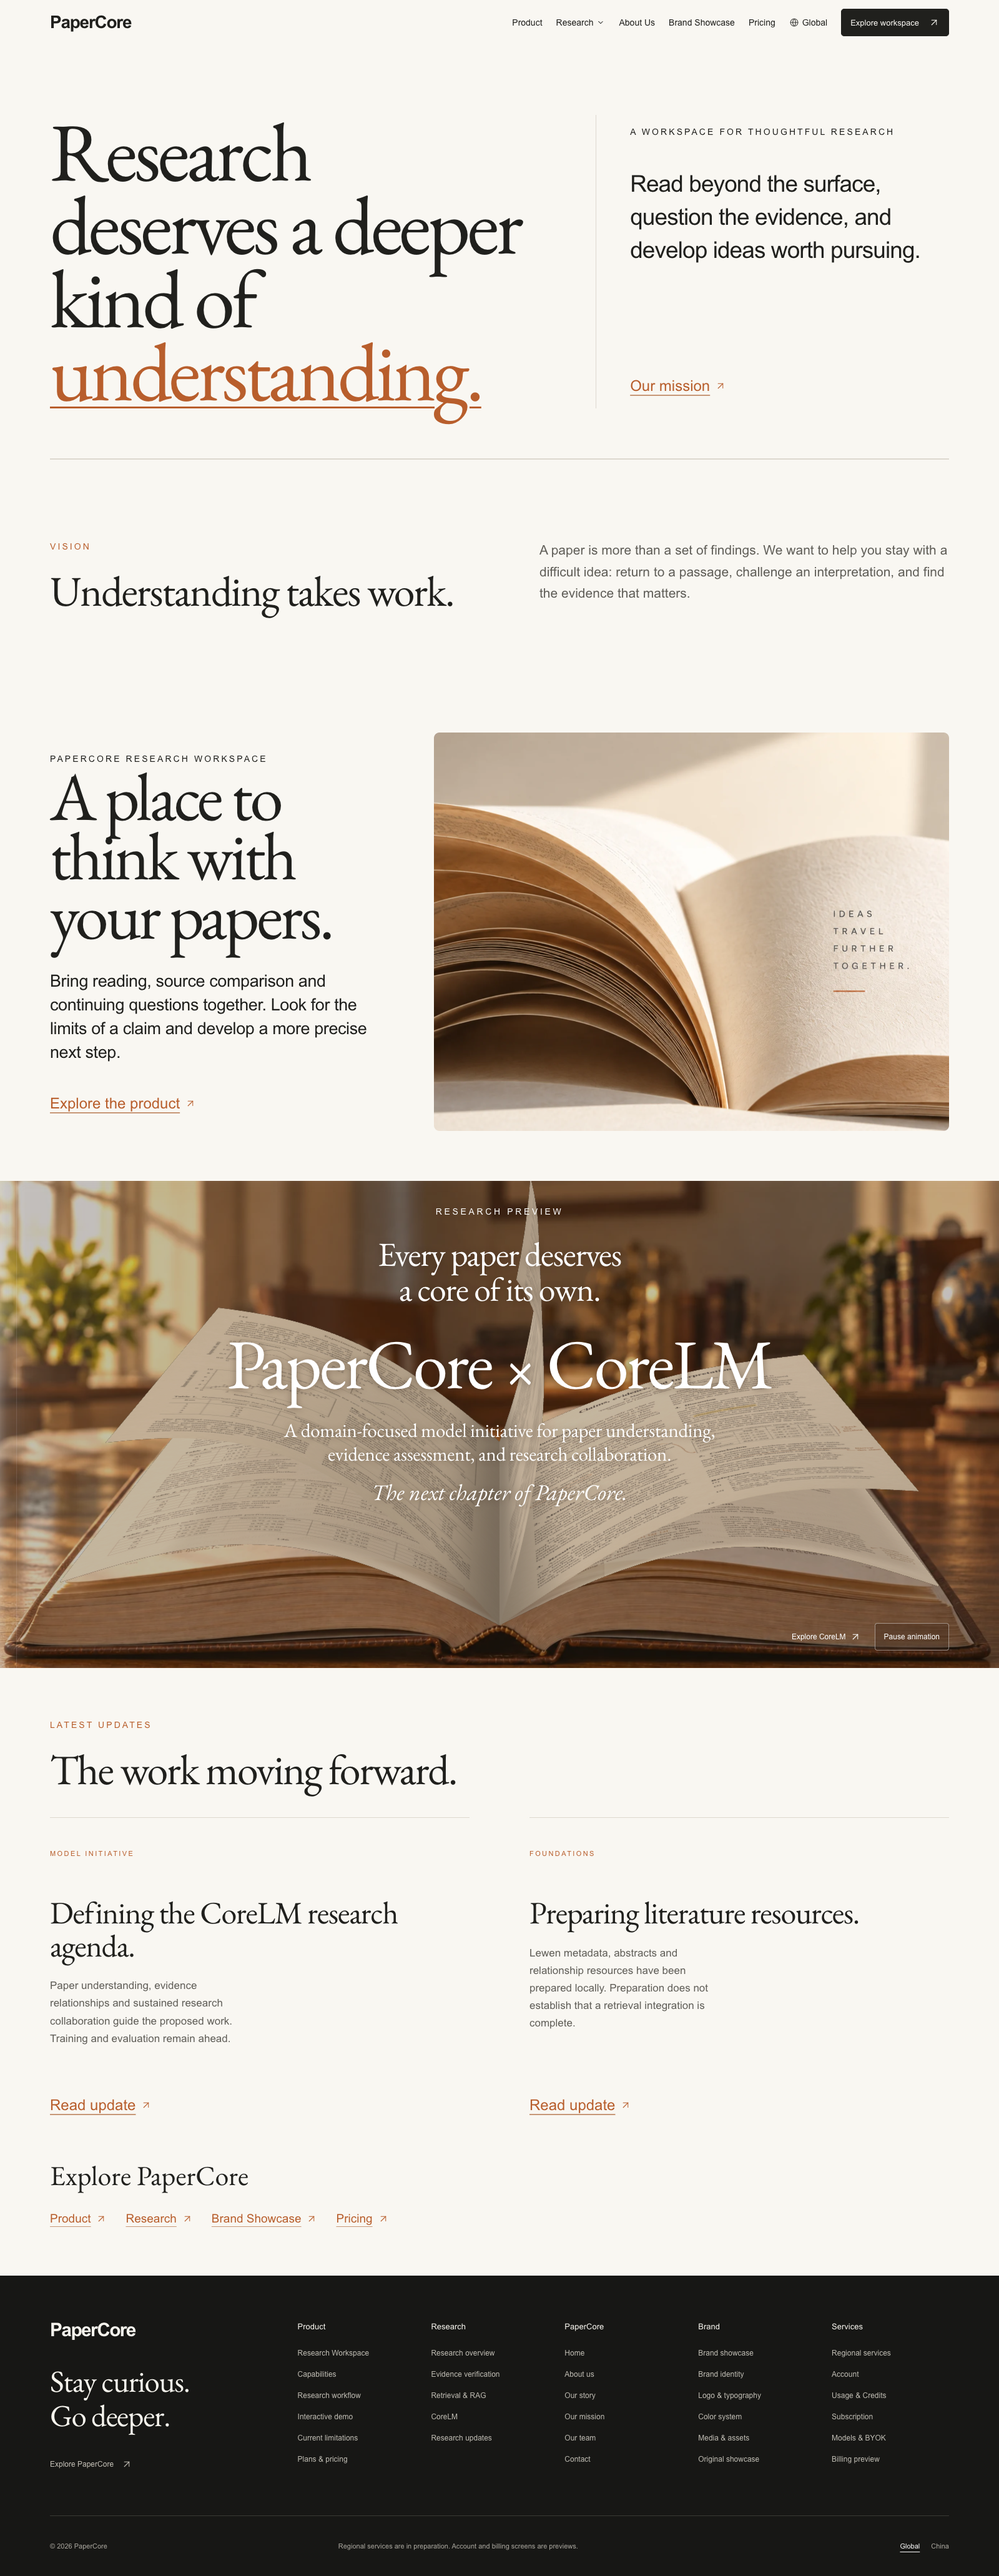
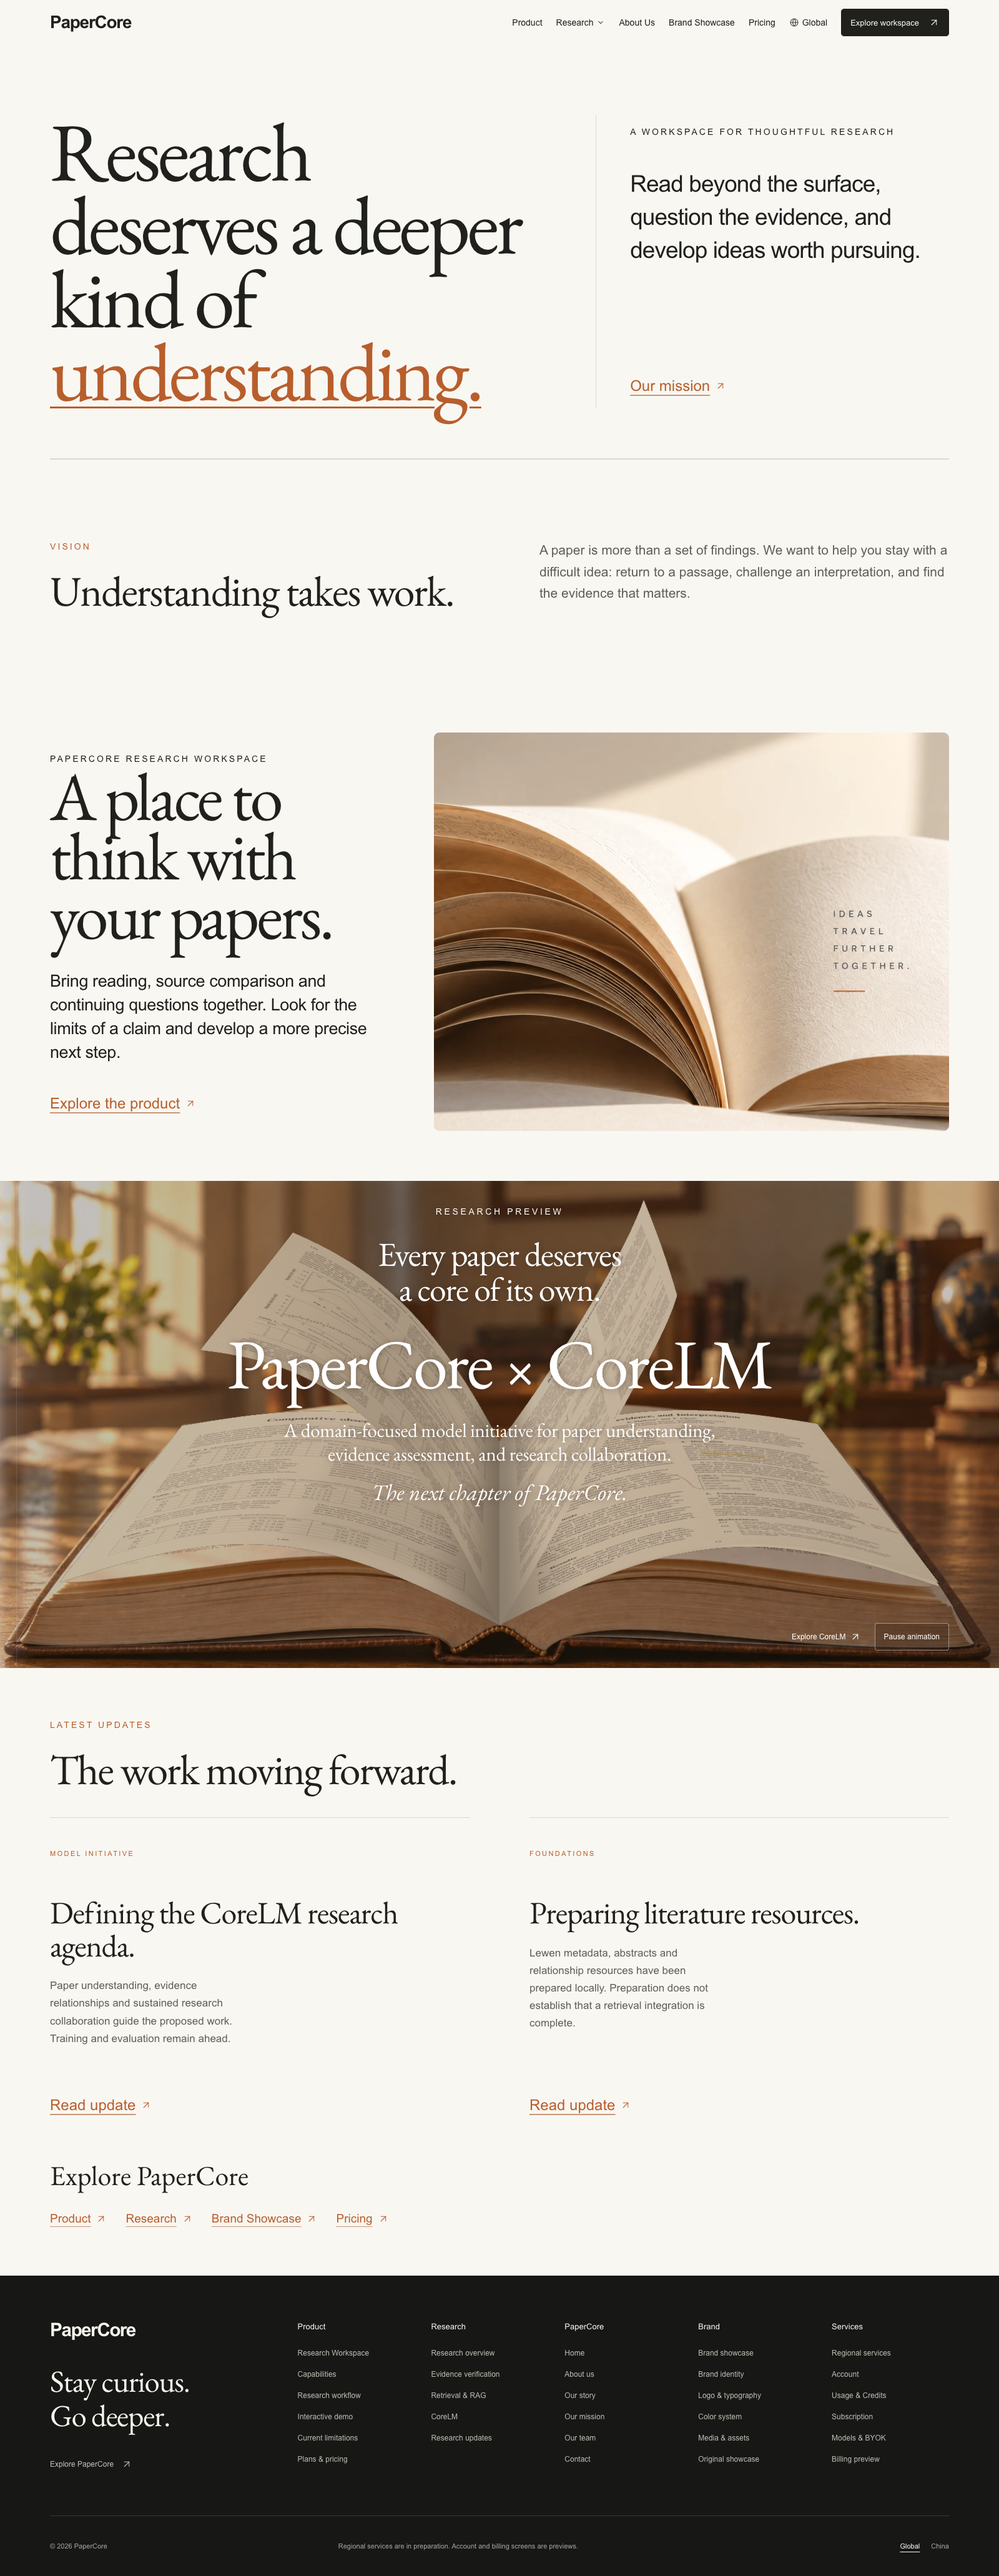
Refresh October 28 previews and research progress

Changed region(s): [[0.125, 0.4655, 0.9062, 0.6206]]

diff --git a/README.md b/README.md
@@ -36,7 +36,7 @@ Follow-ups distinguish discussion, focused edits and new claims. The conversatio
 
 A narrower revision can be supported even when the original claim remains unresolved. Missing full text or a service error is not treated as evidence that a scientific claim is false. Automated checks assist human review; they do not establish scientific correctness.
 
-Recent work improves scanned and nested-chart reading, separates approximate visual measurements from exact values, and makes interrupted evidence reviews recoverable within bounded retries. Complex figures and failed provider calls can still leave a claim unresolved.
+Recent work adds original PDF/image page viewing with navigation and zoom, source-bound table-cell checks, and geometry records for fractions, scripts and nested formulas. Literal location is kept separate from scientific support. Scanned tables, complex formula meaning and ambiguous source locations remain under validation; isolated successful provider requests do not establish general reliability or whole-paper speed.
 
 ## Website and regional workspaces
 
@@ -46,11 +46,11 @@ Local regional services now connect accounts to private research workspaces, usa
 
 ## CoreLM research progress
 
-As of October 15, 2026, small-scale experiments are adapting Qwen3-8B for source-grounded condition and evidence review. This work studies how to distinguish a missing condition, a clearly supported condition and unresolved attribution. It is part of the CoreLM research initiative; no CoreLM model has been released or deployed in PaperCore.
+The member has completed a 396-example synthetic training run based on Qwen3-8B. Review of saved answers found development performance improved from **26/60 to 44/60**, but the model also introduced **10 incorrect clearances**, and regression format/field compliance fell from **12/12 to 5/12**. It therefore **did not pass quality acceptance**. No CoreLM model has been released or deployed in PaperCore.
 
-An initial 264-example training trial showed limited improvement but still failed to recognize uncertainty reliably. Separate prompt comparisons introduced incorrect clearances, so the proposed rules were not deployed. A new set of **396 synthetic training examples** is prepared, with **60 fixed development tasks and 12 regression tasks**; training on this expanded set has not started. The independent test set remains sealed.
+The v1.4 member tools improve runtime accounting, evaluation scheduling and recovery; they do not add training examples or represent a new trained model. The next step is to audit the member-modified code and evaluate existing artifacts before deciding whether further training is justified. The independent test set remains sealed.
 
-These are assistant-authored, author-reviewed exercises, not an independently validated real-paper benchmark. Software checks cover data integrity, resource limits and recovery; they do not establish research accuracy or production readiness. Training code, datasets and weights are not distributed through this Showcase.
+These figures come from a historical review of member outputs, not a new evaluation or an independently validated real-paper benchmark. Training code, datasets, outputs and weights are not distributed through this Showcase.
 
 ## Website preview
 
@@ -58,7 +58,7 @@ Parts of the website design draw inspiration from [Anthropic](https://www.anthro
 
 <img src="assets/website-preview.png" alt="Complete current English PaperCore website, freshly captured in Google Chrome from navigation to footer" width="1000" />
 
-*Fresh full-page capture of the current English website, taken in Google Chrome on October 21, 2026 (1600 × 4125). It includes the navigation, research sections, CoreLM preview and complete footer. Captured from a local build; a public hosted service is not yet available.*
+*Fresh full-page capture of the current English website, taken in Google Chrome on October 28, 2026 (1600 × 4125). It includes the navigation, research sections, CoreLM preview and complete footer. Captured from a local build; a public hosted service is not yet available.*
 
 ## Research workspace preview
 
@@ -66,15 +66,15 @@ Parts of the website design draw inspiration from [Anthropic](https://www.anthro
 <img src="assets/workspace-v2.jpg" alt="Complete PaperCore 2.0 desktop workspace, captured in Google Chrome with Web search disabled" width="1200" />
 </div>
 
-*Fresh capture of the current desktop homepage, taken in Google Chrome on October 21, 2026 (1600 × 1100), including the sidebar and page footer. Captured in an empty local workspace with Web search disabled; no uploaded papers, conversations or credentials are shown. The interface shown is in Chinese. White, warm and dark themes are available.*
+*Fresh capture of the current desktop homepage, taken in Google Chrome on October 28, 2026 (1600 × 1100), including the sidebar and page footer. Captured in an empty local workspace with Web search disabled; no uploaded papers, conversations or credentials are shown. The interface shown is in Chinese. White, warm and dark themes are available.*
 
 ## Invited beta preview
 
-The separate China beta website now leads to invitation activation, a participant workspace and a document center. Terms, privacy, material permissions and applicable third-party service consent are recorded separately. Optional data-use permissions remain separate from participation. This is locally validated preparation; public registration and launch have not been approved.
+The separate China beta website now leads to invitation activation, a participant workspace and a document center. Terms, privacy, material permissions and applicable third-party service consent are recorded separately. Optional data-use permissions remain separate from participation. Beta execution now preserves original authorization and accumulated usage when resuming a task. Local causal-diagnosis acceptance remains incomplete, so participant-experience acceptance and public launch are still pending. The prior provider-review window has expired; this update does not extend it.
 
 <img src="assets/beta-preview.png" alt="Complete local PaperCore China invited-beta homepage" width="1000" />
 
-*Full-page Google Chrome capture, October 21, 2026 (1600 × 4457). The preview contains no participant account or research data.*
+*Full-page Google Chrome capture, October 28, 2026 (1600 × 4457). The preview contains no participant account or research data.*
 
 ## Independent Chinese brand preview
 
@@ -82,7 +82,7 @@ An independent website explores **砚衡 · PaperCore 中国版** (Yanheng) and 
 
 <img src="assets/yanheng-preview.png" alt="Complete Yanheng Chinese brand website preview" width="1000" />
 
-*Full-page Google Chrome capture, October 21, 2026 (1600 × 4010), from an isolated local build.*
+*Full-page Google Chrome capture, October 28, 2026 (1600 × 4010), from an isolated local build.*
 
 ## Data and connected services
 
@@ -96,7 +96,7 @@ The Web toggle controls external paper search. It does **not** turn off cloud mo
 
 ## Development status
 
-**PaperCore 2.0 is an internal development preview.** The October 21 update brings together evidence and chart-reading corrections, recovery compatibility, the invited-beta interface and documentation, and an independent Chinese brand preview. Broader evaluation with independently annotated material remains in progress. Automated regression tests cover workflow behavior with fixtures and mocked services; they are not an overall accuracy measurement.
+**PaperCore 2.0 is an internal development preview.** The October 28 update brings together source-page reading, table/formula alignment, vision recovery, beta execution and reconciliation, participant-document templates and corrected model-research progress. Broader evaluation with independently annotated material remains in progress. Automated regression tests cover workflow behavior with fixtures and mocked services; they are not an overall accuracy measurement.
 
 Regional vision execution, broader real-paper evaluation, additional-provider handoff and production concurrency acceptance remain pending. Formula-specific verification and CNKI integration are not implemented. There is currently no public hosted demo or public installation package. A demo link will be added when one is available.
 
